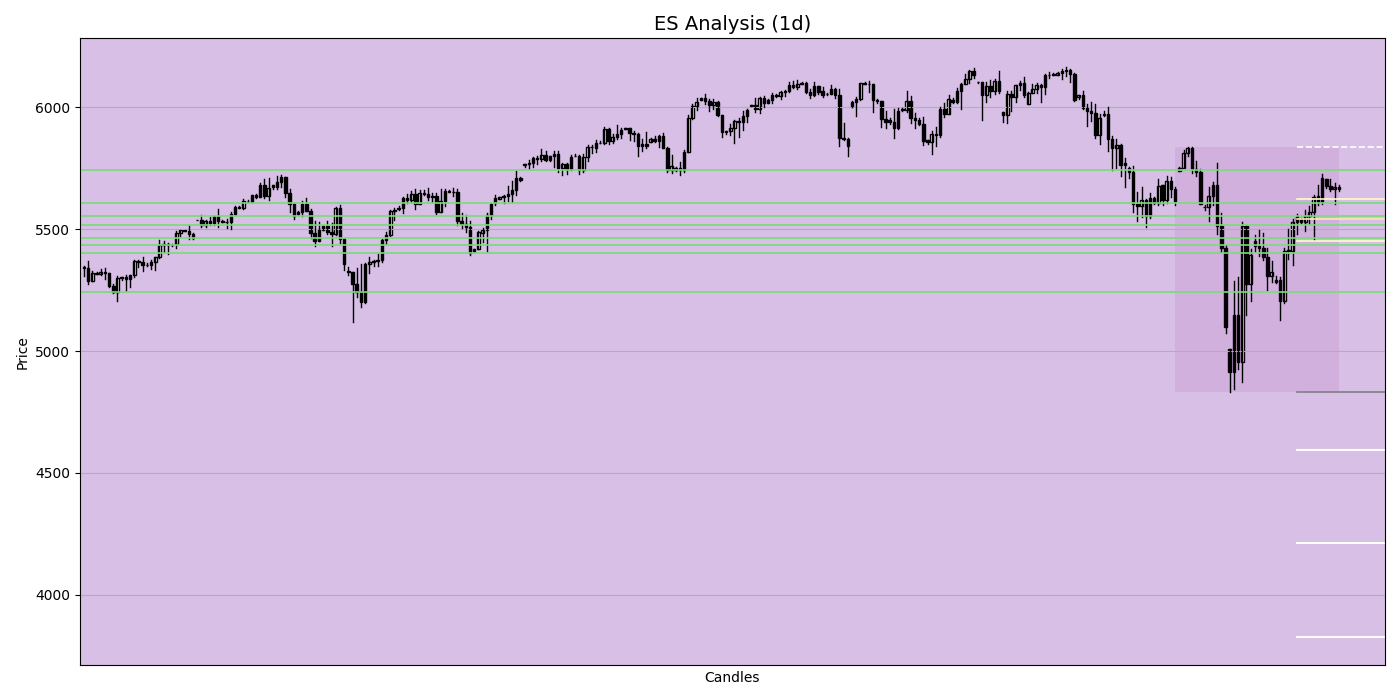
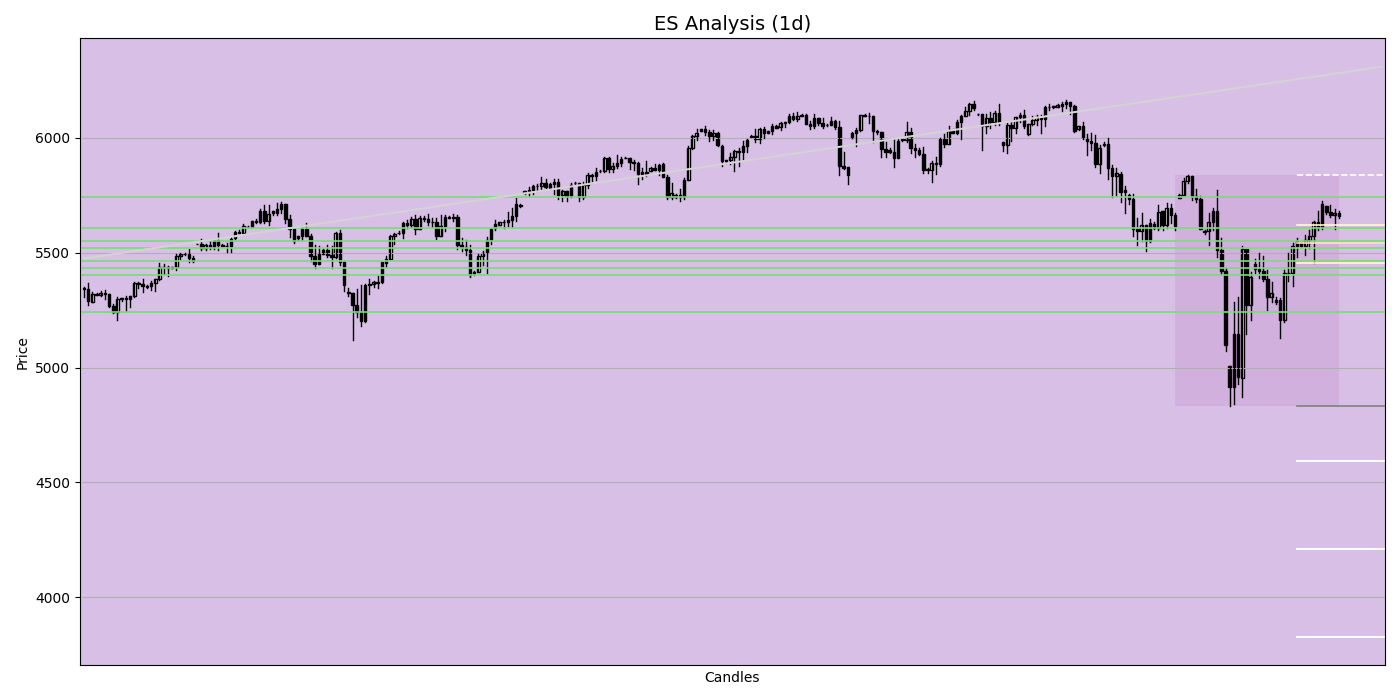
🔥 v10.0: Stable release with live data sync, Telegram + CLI support, IRZ logic, trendlines, and current price

diff --git a/data/databento_client.py b/data/databento_client.py
@@ -12,9 +12,9 @@ load_dotenv()
 API_KEY = os.getenv("DATABENTO_API_KEY")
 
 TIMEFRAME_MAP = {
-    "1min": "1T",
-    "5min": "5T",
-    "15min": "15T",
+    "1min": "1min",
+    "5min": "5min",
+    "15min": "15min",
     "1h": "1H",
     "4h": "4H",
     "1d": "1D",
@@ -62,32 +62,49 @@ def fetch_ohlcv(symbol_details: dict, timeframe: str, lookback_days: int = None)
     db_stype_in = symbol_details["stype_in"]
     asset_class = symbol_details.get("asset_class", "unknown")
 
-    end_time = datetime.now(timezone.utc).replace(second=0, microsecond=0) - timedelta(minutes=15)
+    end_time = datetime.now(timezone.utc).replace(second=0, microsecond=0) - timedelta(minutes=12)
     if lookback_days is None:
         lookback_days = get_dynamic_lookback(timeframe)
     start_time = end_time - timedelta(days=lookback_days)
 
-    print(f"[Data] Fetching {db_symbol} from {db_dataset} ({db_stype_in}, {asset_class}) from {start_time} to {end_time} on {timeframe} timeframe...")
     sys.stdout.flush()
 
     df = pd.DataFrame()
     df_trades = pd.DataFrame()
 
     try:
-        data = client.timeseries.get_range(
-            dataset=db_dataset,
-            symbols=[db_symbol],
-            stype_in=db_stype_in,
-            schema="ohlcv-1s",
-            start=start_time,
-            end=end_time,
-        )
-        df = data.to_df() if data else pd.DataFrame()
+        try:
+            data = client.timeseries.get_range(
+                dataset=db_dataset,
+                symbols=[db_symbol],
+                stype_in=db_stype_in,
+                schema="ohlcv-1s",
+                start=start_time,
+                end=end_time,
+            )
+            df = data.to_df() if data else pd.DataFrame()
+        except Exception as e:
+            error_message = str(e)
+            if "data_end_after_available_end" in error_message:
+                actual_end_str_start = error_message.find("available up to ") + len("available up to ")
+                actual_end_str_end = error_message.find(".", actual_end_str_start)
+                if 0 <= actual_end_str_start < actual_end_str_end:
+                    corrected_end = error_message[actual_end_str_start:actual_end_str_end]
+                    end_time = pd.to_datetime(corrected_end)
+                    start_time = end_time - timedelta(days=lookback_days)
+                    data = client.timeseries.get_range(
+                        dataset=db_dataset,
+                        symbols=[db_symbol],
+                        stype_in=db_stype_in,
+                        schema="ohlcv-1s",
+                        start=start_time,
+                        end=end_time,
+                    )
+                    df = data.to_df() if data else pd.DataFrame()
+            else:
+                raise
 
-        if not df.empty:
-            print(f"[DEBUG] OHLCV columns: {df.columns.tolist()}")
-            print(f"[DEBUG] OHLCV preview:\n{df.head()}")
-        else:
+        if df.empty:
             print(f"[Warning] No OHLCV data — falling back to trades.")
             sys.stdout.flush()
 
@@ -151,17 +168,6 @@ def fetch_ohlcv(symbol_details: dict, timeframe: str, lookback_days: int = None)
         print(f"[ERROR_HANDLER] Caught exception: {type(e).__name__} - {e}")
         sys.stdout.flush()
         error_message = str(e)
-
-        if "data_end_after_available_end" in error_message.lower():
-            try:
-                actual_end_str_start = error_message.find("available up to ") + len("available up to ")
-                actual_end_str_end = error_message.find(".", actual_end_str_start)
-                if 0 <= actual_end_str_start < actual_end_str_end:
-                    available_time = error_message[actual_end_str_start:actual_end_str_end]
-                    print(f"[Data Hint] Databento says data ends at: {available_time}")
-            except Exception as parse_e:
-                print(f"[Debug] Failed to parse available end time: {parse_e}")
-                sys.stdout.flush()
 
         err_sym_display = db_symbol or "unknown_symbol"
         if err_sym_display not in error_message and "Symbol:" not in error_message:

diff --git a/bot/telegram_interface.py b/bot/telegram_interface.py
@@ -44,9 +44,9 @@ async def report(update: Update, context: ContextTypes.DEFAULT_TYPE):
 
         for symbol in symbols:
             for tf in timeframes:
-                await update.message.reply_text(f"🌸 Running report for *{symbol}* @ `{tf}`...", parse_mode="Markdown")
+                await update.message.reply_text(f"🌸 Running report for *{symbol.get('input_symbol', symbol.get('db_symbol', '???'))}* @ `{tf}`...", parse_mode="Markdown")
 
-                report_obj = run_analysis(symbol, tf)
+                report_obj = run_analysis(symbol_details=symbol, timeframe=tf)
                 report_text = format_report_markdown(report_obj)
 
                 await update.message.reply_markdown_v2(report_text)

diff --git a/cli/kawaii_cli.py b/cli/kawaii_cli.py
@@ -52,7 +52,6 @@ def main():
             print(f"\n[🌸 Running report for: {symbol_input} @ {timeframe}]")
             
             symbol_details = resolve_symbol_alias(symbol_input)
-            print(f"[DEBUG kawaii_cli.py] Input symbol: '{symbol_input}', Resolved details: {symbol_details}")
             
             try:
                 report = run_analysis(symbol_details, timeframe)
@@ -63,4 +62,3 @@ def main():
 
 if __name__ == "__main__":
     main()
-
